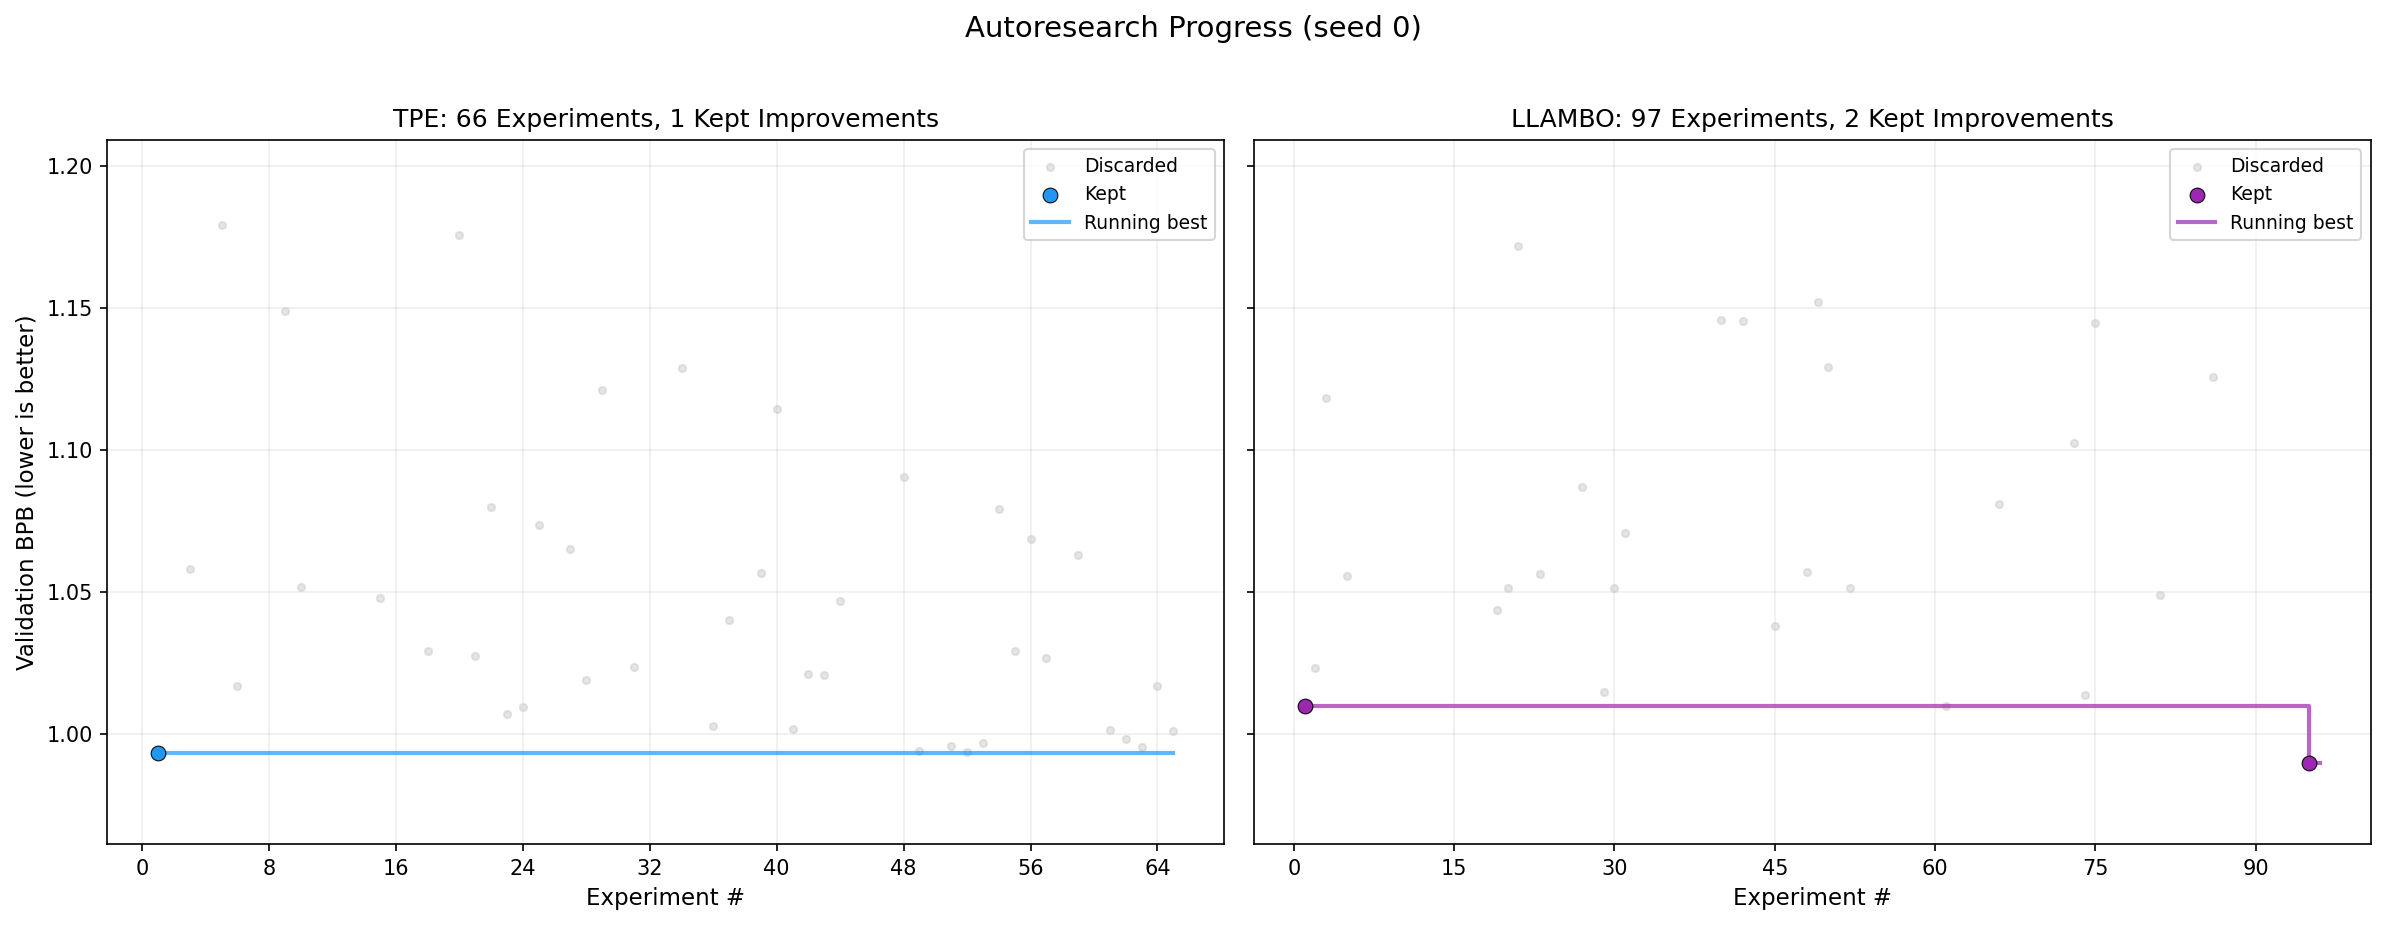
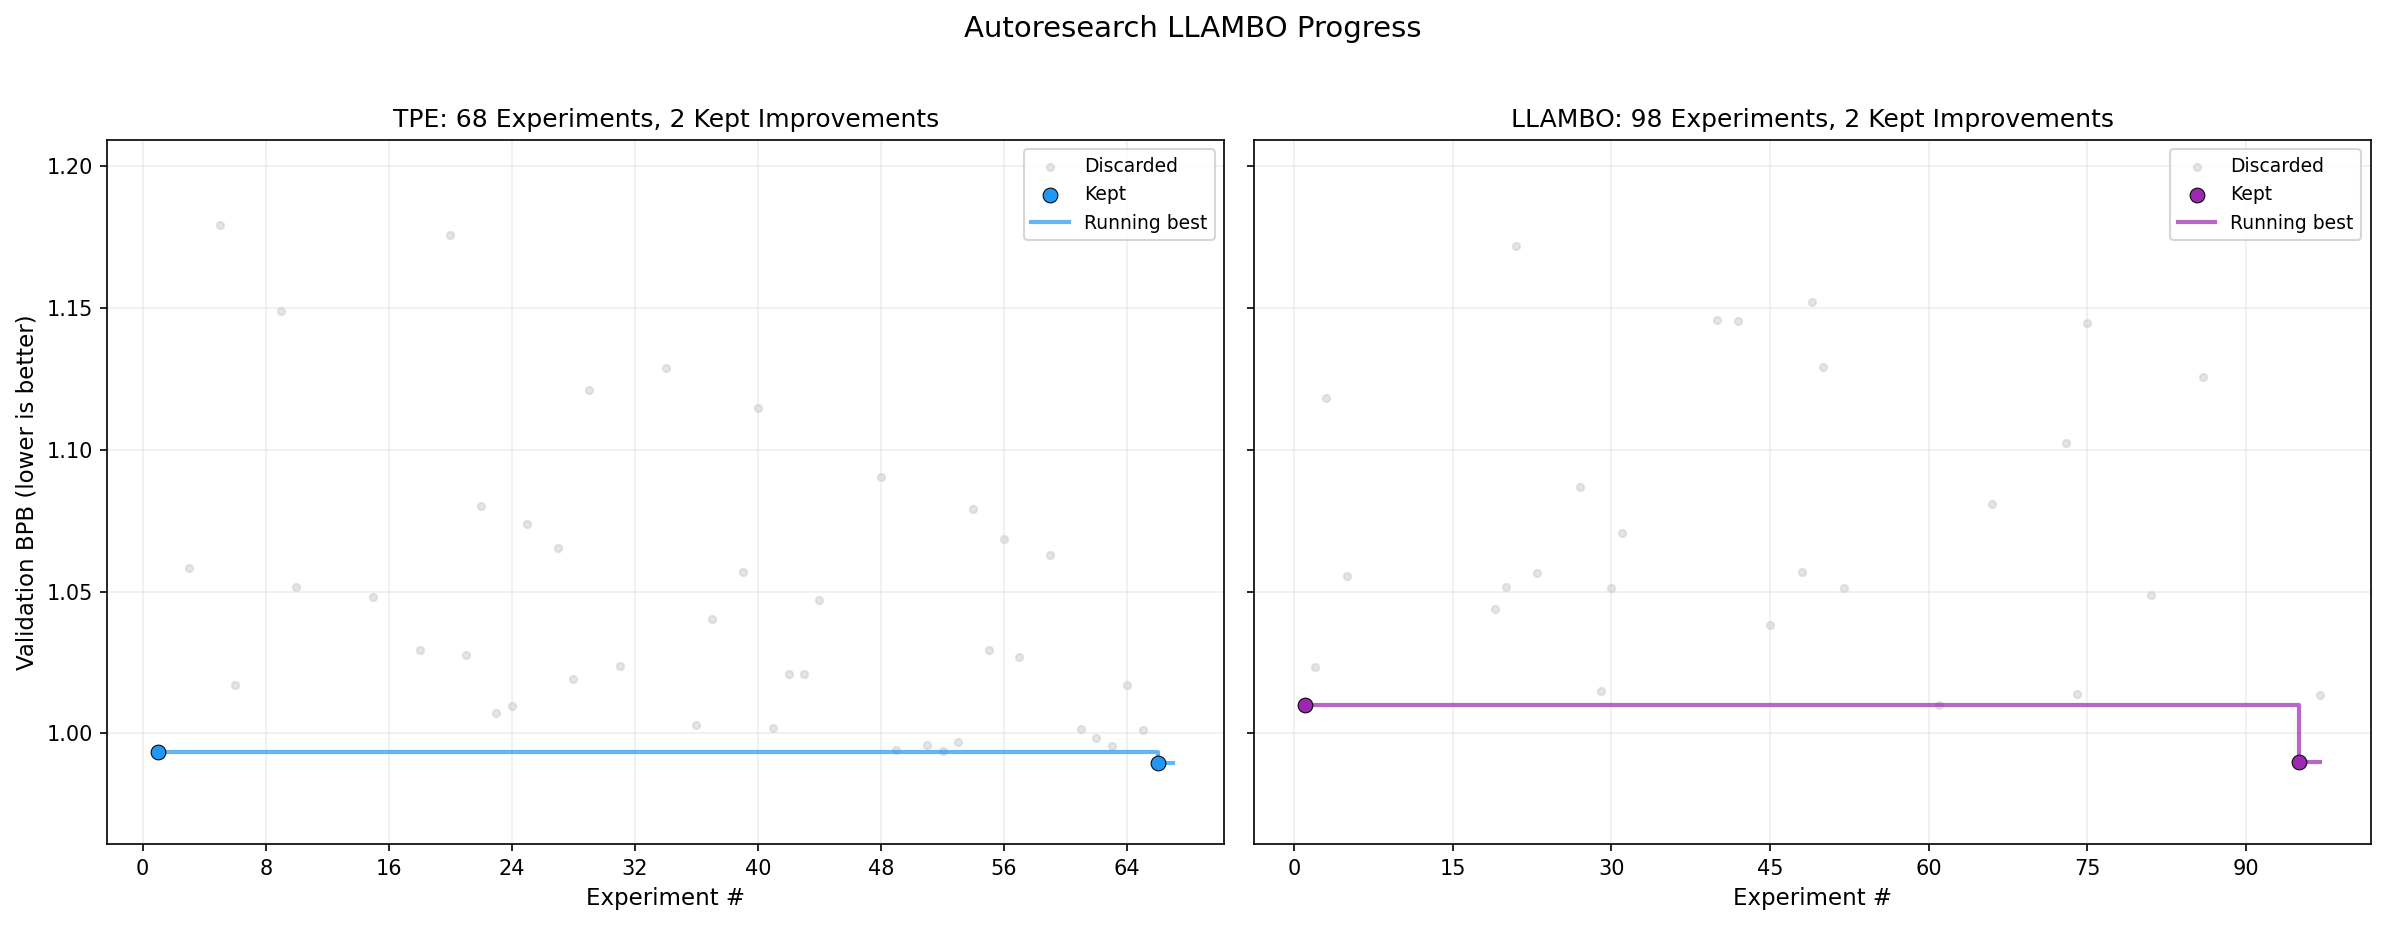
Rename progress plot to Autoresearch LLAMBO Progress

diff --git a/scripts/plot_convergence.py b/scripts/plot_convergence.py
@@ -119,7 +119,7 @@ def plot_exp2(results_dir: Path, output_path: Path):
 
 
 def plot_progress(results_dir: Path, output_path: Path):
-    """Karpathy-style progress plot: scatter + running best staircase, one subplot per backend."""
+    """Progress plot: scatter + running best staircase, one subplot per backend."""
     fig, axes = plt.subplots(1, 2, figsize=(16, 6), sharey=True)
 
     backends = [
@@ -195,7 +195,7 @@ def plot_progress(results_dir: Path, output_path: Path):
         for ax in axes:
             ax.set_ylim(ymin - margin, ymax + margin)
 
-    fig.suptitle("Autoresearch Progress (seed 0)", fontsize=14, y=1.02)
+    fig.suptitle("Autoresearch LLAMBO Progress", fontsize=14, y=1.02)
     fig.tight_layout()
     fig.savefig(output_path, dpi=150, bbox_inches="tight")
     plt.close(fig)

diff --git a/README.md b/README.md
@@ -29,9 +29,9 @@ LLAMBO converges faster in the first ~20 trials. TPE catches up given enough bud
 
 ![LLM model size comparison](assets/exp1_model_size.png)
 
-### Progress (Karpathy-style)
+### Autoresearch LLAMBO Progress
 
-Same format as [Karpathy's progress plot](https://github.com/karpathy/autoresearch/blob/master/progress.png). Grey dots are discarded trials, colored dots are new bests, staircase is the running best.
+Grey dots are discarded trials, colored dots are new bests, staircase is the running best.
 
 ![Progress plot](assets/exp2_progress.png)
 
